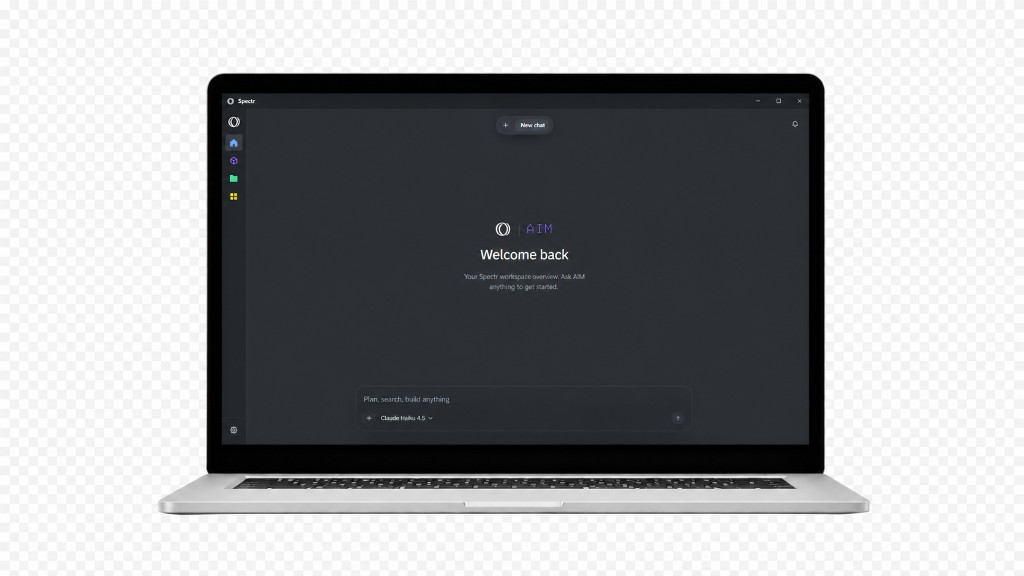
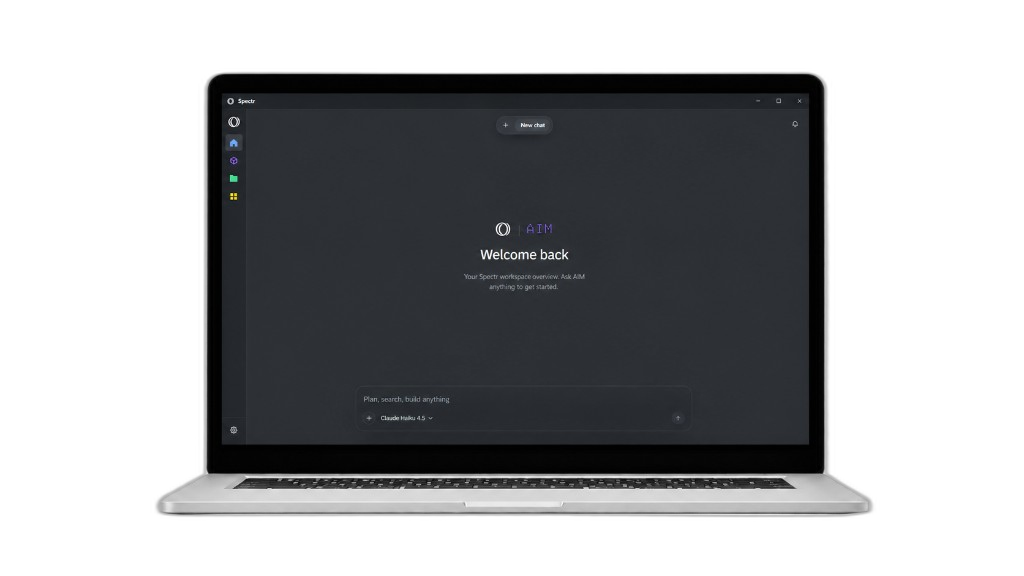
Cut the checkerboard out of the login laptop and make Continue blue.

diff --git a/src/app/globals.css b/src/app/globals.css
@@ -1735,8 +1735,8 @@ html.theme-white footer {
 }
 
 .auth-page {
-  --accent: #635bff;
-  --accent-hover: #5851ea;
+  --accent: #2563eb;
+  --accent-hover: #1d4ed8;
   --ink: #0a2540;
   --fg: #425466;
   --muted: #697386;
@@ -1781,7 +1781,7 @@ html.theme-white footer {
   justify-content: center;
   gap: 0.5rem;
   border-radius: 0.375rem;
-  background: #635bff;
+  background: var(--accent);
   color: #fff;
   font-size: 15px;
   font-weight: 500;
@@ -1790,7 +1790,7 @@ html.theme-white footer {
 }
 
 .auth-submit:hover {
-  background: #5851ea;
+  background: var(--accent-hover);
 }
 
 .auth-submit:disabled {
